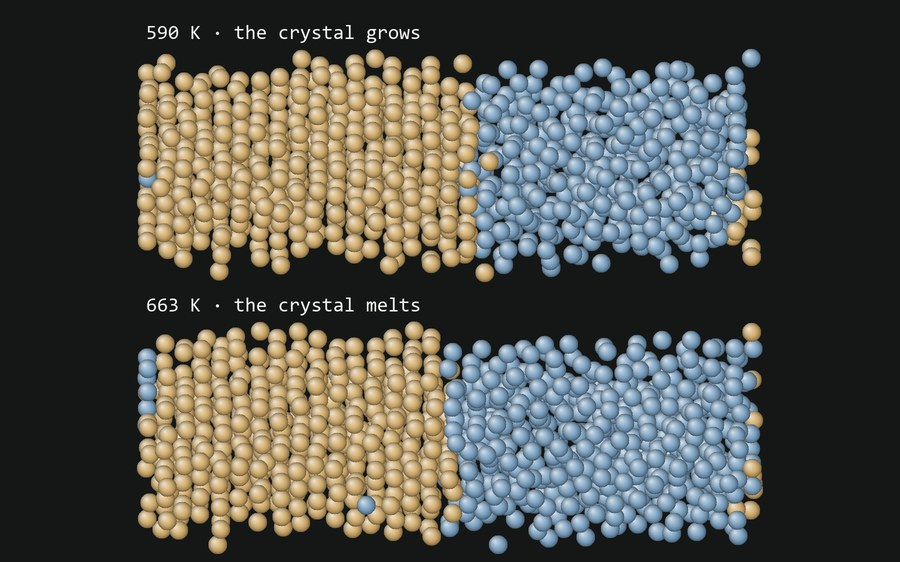
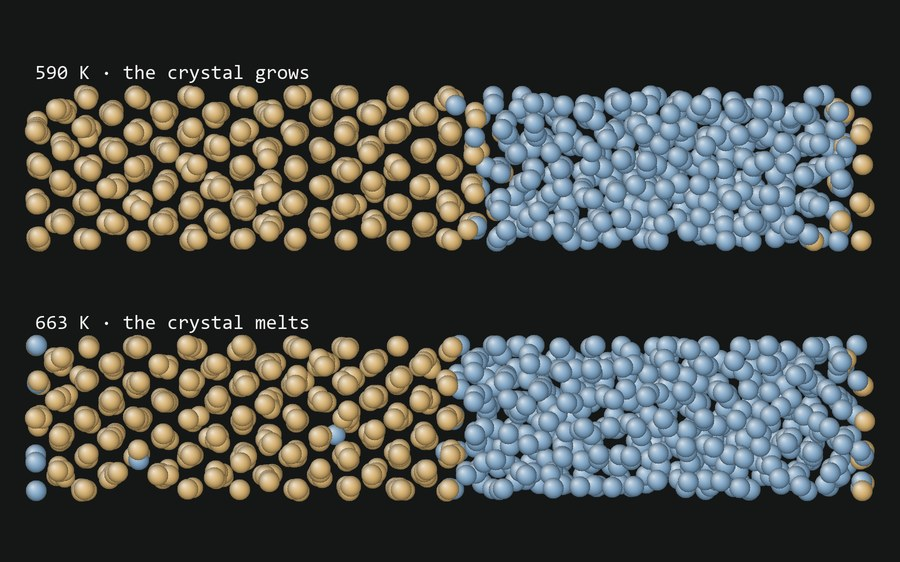
Melting card: thumbnail slabs viewed down fcc [110] so the crystal reads as columns; retitled 'Faster entropy estimates with a downloaded force field' (page + card)

diff --git a/melting.html b/melting.html
@@ -3,12 +3,12 @@
 <head>
 <meta charset="utf-8">
 <meta name="viewport" content="width=device-width, initial-scale=1">
-<title>Where the entropy of melting comes from · Kyle Hunady</title>
+<title>Faster entropy estimates with a downloaded force field · Kyle Hunady</title>
 <meta name="description" content="Caltech research on the entropy of melting: machine-learned MACE molecular dynamics of Pb, Bi, Sn, Zn, Ge and Si, DFT electronic entropy, and comparison with neutron-scattering measurements.">
 <link rel="canonical" href="https://kyle-hunady.github.io/melting.html">
 <meta property="og:type" content="website">
 <meta property="og:url" content="https://kyle-hunady.github.io/melting.html">
-<meta property="og:title" content="Where the entropy of melting comes from · Kyle Hunady">
+<meta property="og:title" content="Faster entropy estimates with a downloaded force field · Kyle Hunady">
 <meta property="og:description" content="Caltech research on the entropy of melting: machine-learned MACE molecular dynamics of Pb, Bi, Sn, Zn, Ge and Si, DFT electronic entropy, and comparison with neutron-scattering measurements.">
 <meta property="og:image" content="https://kyle-hunady.github.io/assets/img/og-card.png">
 <meta name="twitter:card" content="summary_large_image">
@@ -32,7 +32,7 @@
   .fig canvas.m-slab { width: 100%; height: 12rem; background: var(--surface-2); border-radius: 0.5rem; display: block; margin-bottom: 0.5rem; }
   @media (max-width: 720px) { .melt3d { grid-template-columns: repeat(var(--nm, 1), minmax(0, 1fr)); } }
 </style>
-<!-- crumbs-ld --><script type="application/ld+json">{"@context": "https://schema.org", "@type": "BreadcrumbList", "itemListElement": [{"@type": "ListItem", "position": 1, "name": "Home", "item": "https://kyle-hunady.github.io/"}, {"@type": "ListItem", "position": 2, "name": "Research", "item": "https://kyle-hunady.github.io/index.html#research"}, {"@type": "ListItem", "position": 3, "name": "Entropy of melting", "item": "https://kyle-hunady.github.io/melting.html"}]}</script><!-- /crumbs-ld --></head>
+<!-- crumbs-ld --><script type="application/ld+json">{"@context": "https://schema.org", "@type": "BreadcrumbList", "itemListElement": [{"@type": "ListItem", "position": 1, "name": "Home", "item": "https://kyle-hunady.github.io/"}, {"@type": "ListItem", "position": 2, "name": "Research", "item": "https://kyle-hunady.github.io/index.html#research"}, {"@type": "ListItem", "position": 3, "name": "Faster entropy estimates", "item": "https://kyle-hunady.github.io/melting.html"}]}</script><!-- /crumbs-ld --></head>
 <body>
 <a class="skip" href="#main">Skip to content</a>
 <svg width="0" height="0" style="position:absolute" aria-hidden="true">
@@ -65,17 +65,17 @@
 
 <header class="page__head">
   <div class="container header__container">
-    <!-- crumbs --><div class="crumbs" role="navigation" aria-label="Breadcrumb"><ol><li><a href="index.html">Home</a></li><li><a href="index.html#research">Research</a></li><li aria-current="page">Entropy of melting</li></ol></div><!-- /crumbs -->
-    <p class="header__eyebrow">Machine-learned potentials · Caltech · in progress</p>
-    <h1>Where the entropy of melting comes from</h1>
-    <p class="header__line">Can a free, pretrained machine-learned potential reproduce a melting study that needed custom-fitted models? I test it on lead, then on five more elements.</p>
+    <!-- crumbs --><div class="crumbs" role="navigation" aria-label="Breadcrumb"><ol><li><a href="index.html">Home</a></li><li><a href="index.html#research">Research</a></li><li aria-current="page">Faster entropy estimates</li></ol></div><!-- /crumbs -->
+    <p class="header__eyebrow">Thermodynamics · machine-learned potentials · Caltech · in progress</p>
+    <h1>Faster entropy estimates with a downloaded force field</h1>
+    <p class="header__line">Pretrained machine-learned potentials, built from databases that already exist, can estimate thermodynamic properties without fitting a new model for every material. I test how close one gets to the entropy of melting, with lead as the worked example.</p>
   </div>
 </header>
 
 <main id="main" class="page">
   <div class="container">
 
-    <p class="lede">Machine-learned interatomic potentials let a computer follow thousands of atoms with close to quantum-mechanical accuracy. Until recently every study fitted its own: hundreds of quantum-mechanical calculations per element, an active-learning loop, and weeks of work before the first useful simulation. Pretrained “foundation” potentials change that. Models such as MACE-OMAT-0 are trained once on over a hundred million calculations across the periodic table, and anyone can download them and use them as they are. If they are accurate enough, every new material skips the fitting step.</p>
+    <p class="lede">Machine-learned interatomic potentials let a computer follow thousands of atoms with close to quantum-mechanical accuracy. Until recently every study fitted its own: hundreds of quantum-mechanical calculations per element, an active-learning loop, and weeks of work before the first useful simulation. Pretrained “foundation” potentials change that. Models such as MACE-OMAT-0 are trained once on over a hundred million calculations across the periodic table, and anyone can download them and use them as they are. If they are accurate enough, every new material skips the fitting step. The goal is not a perfect number but a good estimate, fast, from tools that already exist, so the expensive calculations go only where the estimate is not good enough.</p>
     <p>To find out how far that goes, I am repeating a melting study from our own group with a downloaded model. a 2024 Caltech PhD thesis by Camille Bernal-Choban, a former member of our group (<a href="https://doi.org/10.1038/s43246-024-00695-x" target="_blank" rel="noreferrer">Bernal-Choban et al. 2024</a>) measured how much entropy several elements gain when they melt, split it into its sources, and backed the split with simulations that used potentials fitted to each element. Because the reference numbers and the people who made them are in the same lab, every difference can be traced to its cause. Lead is the worked example: MACE melts it within 2 % of the measured temperature, but its entropy of fusion comes out about 25 % high, and its electronic part is about eight times smaller than hers. On bismuth, zinc, germanium and silicon the model melts 14–34 % too early, yet the entropy of fusion lands within 10 % of the measured value. Results are updated as they come in; preliminary numbers are labelled.</p>
 
     <div class="melt-eq" role="figure" aria-label="Gibbs free energy of fusion">

diff --git a/assets/js/cards.js b/assets/js/cards.js
@@ -298,19 +298,22 @@
       var ph = (t % T) / T, u = ph < 0.5 ? 2 * ph : 2 - 2 * ph;   // ping-pong 0 -> 1 -> 0
       ["590", "663"].forEach(function (key, row) {
         var R = J.runs[key], N = R.n, nf = R.t_ps.length, L = R.box, x = u * (nf - 1), f0 = Math.floor(x), f1 = Math.min(f0 + 1, nf - 1), wgt = x - f0;
-        var sc = Math.min((IW - 140) / L[2], 440 / (L[0] + 0.45 * L[1])), x0 = (IW - L[2] * sc) / 2, y0 = 110 + row * 545, r = Math.max(4, Math.round(1.3 * sc)), nb = Math.ceil(N / 8);
-        var pts = [], FADE = 2.2;
+        // view down fcc [110], the close-packed direction, so the crystal reads as columns; on the square
+        // cross-section (x - y) mod L is the exact periodic projection coordinate (same as the static image)
+        var hv = L[0] / Math.SQRT2, sc = Math.min((IW - 140) / L[2], 400 / hv), x0 = (IW - L[2] * sc) / 2, y0 = 190 + row * 500,
+            r = Math.max(4, Math.round(1.05 * sc)), nb = Math.ceil(N / 8), pts = [], FADE = 2.2;
         for (var i = 0; i < N; i++) {
           var p = [];
           for (var k = 0; k < 3; k++) { var a = R.F[(f0 * N + i) * 3 + k] / 256, d = R.F[(f1 * N + i) * 3 + k] / 256 - a; d -= Math.round(d); p.push(((a + wgt * d) % 1 + 1) % 1 * L[k]); }
           var cr = (R.C[(wgt < 0.5 ? f0 : f1) * nb + (i >> 3)] >> (i & 7)) & 1;
+          var sv = ((p[0] - p[1]) % L[0] + L[0]) % L[0], dep = ((p[0] + p[1]) % L[0] + L[0]) % L[0];
           // periodic images within FADE Å of a face fade in/out, so nothing jumps across the box
-          var ox = [[p[0], 1]], oy = [[p[1], 1]], oz = [[p[2], 1]];
-          [[ox, 0], [oy, 1], [oz, 2]].forEach(function (q) { var v = p[q[1]], Lk = L[q[1]];
-            if (v > Lk - FADE) q[0].push([v - Lk, 1 - (Lk - v) / FADE]); if (v < FADE) q[0].push([v + Lk, 1 - v / FADE]); });
-          ox.forEach(function (a1) { oy.forEach(function (b1) { oz.forEach(function (c1) {
-            var al = a1[1] * b1[1] * c1[1]; if (al > 0.05) pts.push([x0 + c1[0] * sc, y0 + (a1[0] + 0.45 * b1[0]) * sc, b1[0], cr, al < 1 ? 0.6 * al : 1]);
-          }); }); });
+          var os = [[sv, 1]], oz = [[p[2], 1]];
+          if (sv > L[0] - FADE) os.push([sv - L[0], 1 - (L[0] - sv) / FADE]); if (sv < FADE) os.push([sv + L[0], 1 - sv / FADE]);
+          if (p[2] > L[2] - FADE) oz.push([p[2] - L[2], 1 - (L[2] - p[2]) / FADE]); if (p[2] < FADE) oz.push([p[2] + L[2], 1 - p[2] / FADE]);
+          os.forEach(function (a1) { oz.forEach(function (c1) {
+            var al = a1[1] * c1[1]; if (al > 0.05) pts.push([x0 + c1[0] * sc, y0 + a1[0] / Math.SQRT2 * sc, dep, cr, al < 1 ? 0.6 * al : 1]);
+          }); });
         }
         pts.sort(function (a2, b2) { return b2[2] - a2[2]; });
         pts.forEach(function (q) { ctx.globalAlpha = q[4]; ctx.drawImage(sprite(q[3] ? GOLD : BLUE, r), q[0] - r, q[1] - r); });

diff --git a/index.html b/index.html
@@ -141,10 +141,10 @@
           <span class="project__more">How it works →</span></div>
       </a>
       <a class="project" href="melting.html">
-        <div class="project__thumb" data-motion="melt"><img src="assets/img/proj-melting.jpg?v=20261122" alt="Two simulated lead slabs, half crystal (gold) and half liquid (blue): at 590 K the crystal grows, at 663 K it melts" width="900" height="562" loading="lazy"></div>
-        <div class="project__body"><div class="project__tag">Simulation · machine-learned potentials</div>
-          <h3 class="project__title">Melting with a downloaded force field</h3>
-          <p>Free, pretrained machine-learned potentials could save the weeks spent fitting one for each material. I test one, MACE-OMAT-0, by repeating a melting study from our group that used custom-fitted models: where each element melts, how much entropy it gains, and how much of that belongs to the electrons.</p>
+        <div class="project__thumb" data-motion="melt"><img src="assets/img/proj-melting.jpg?v=20261122b" alt="Two simulated lead slabs, half crystal (gold) and half liquid (blue): at 590 K the crystal grows, at 663 K it melts" width="900" height="562" loading="lazy"></div>
+        <div class="project__body"><div class="project__tag">Thermodynamics · machine-learned potentials</div>
+          <h3 class="project__title">Faster entropy estimates with a downloaded force field</h3>
+          <p>Fitting a machine-learned potential for each material takes weeks of quantum-mechanical calculations. Pretrained models built from existing databases skip that step and get most of the way there. I test how far one, MACE-OMAT-0, goes on the entropy of melting by repeating a study from our group that used custom-fitted models.</p>
           <span class="project__more">Project page →</span></div>
       </a>
       <a class="project" href="https://github.com/kyle-hunady/pulse-height-distribution" target="_blank" rel="noreferrer">
@@ -223,6 +223,6 @@
 </footer>
 
 <script src="assets/js/site.js?v=20261117065748"></script>
-<script src="assets/js/cards.js?v=20261122m" defer></script>
+<script src="assets/js/cards.js?v=20261122n" defer></script>
 </body>
 </html>
